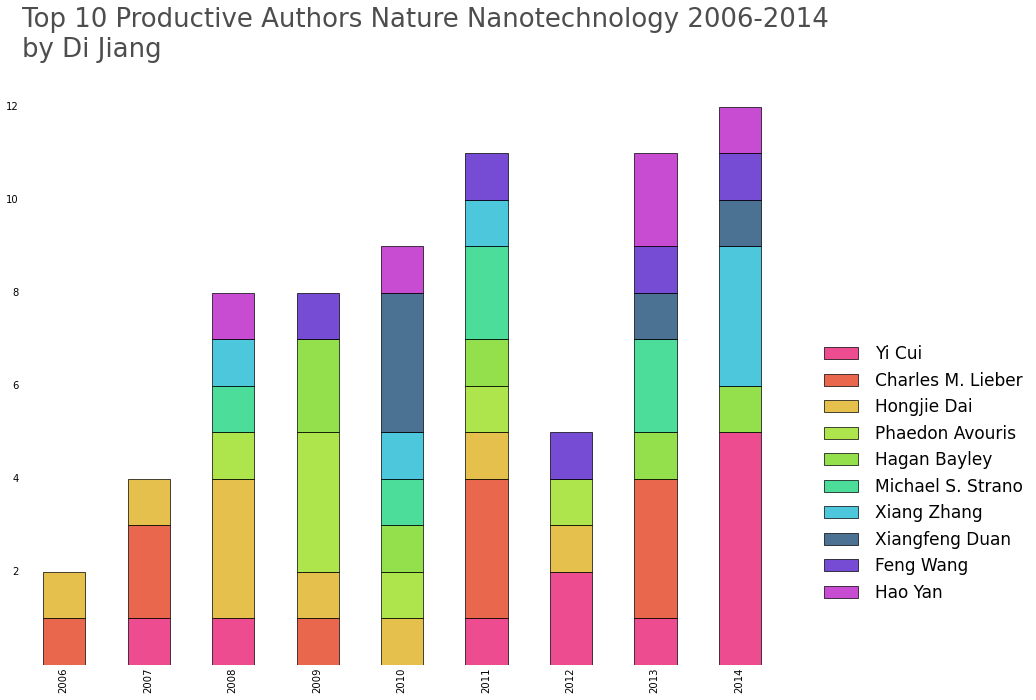
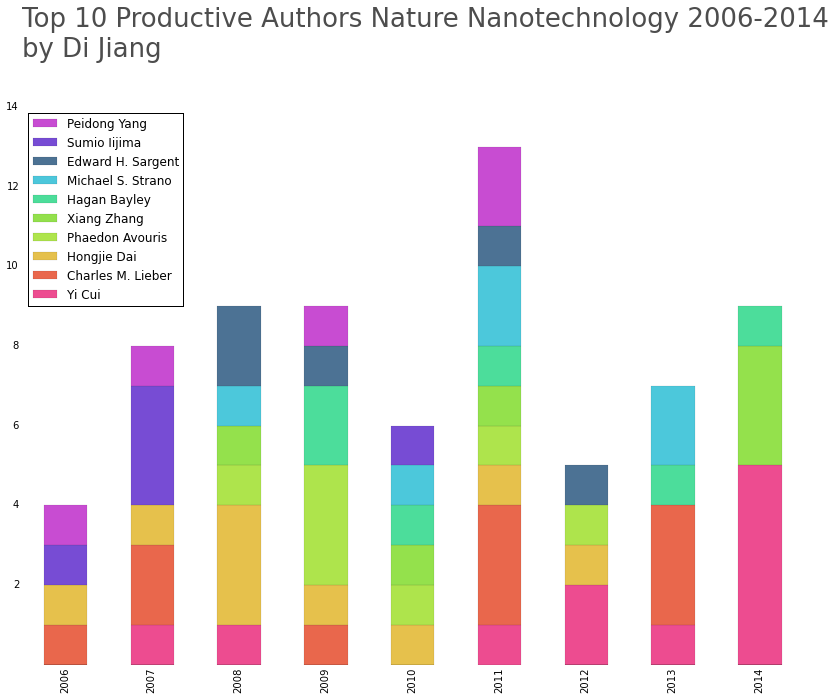
edit

diff --git a/_posts/2015-01-28-taste-of-open-access--part-3--top-10-most-productive-authors-in-nature-nanotechnology.md b/_posts/2015-01-28-taste-of-open-access--part-3--top-10-most-productive-authors-in-nature-nanotechnology.md
@@ -1,41 +1,33 @@
 ---
 layout: post
-title: Taste of Open Access - Part 3 - Top 10 Most productive authors in Nature Nanotechnology
+title: Taste of Open Access - Part 3 - Top 10 most productive authors in Nature Nanotechnology
 categories: []
 tags: []
 published: True
 date: 2015-01-28 18:00:41
 ---
 
-In the previous post, I have the downloaded all the meta information from Nature's Open Search API and saved them as json object arrays. And I have also counted the top 10 most used key words from these info. Now I would like to find out who are the most productive authors in Nature Nanotechnology.
+In the [previous post]({% post_url 2015-01-05-taste-of-open-access--part-2--top-10-used-words-in-nature-nanotechnology %}), I have the downloaded all the meta information from Nature's [Open Search API](http://www.nature.com/developers/documentation/api-references/opensearch-api/) and saved them as json object arrays. And I have also counted the top 10 most used key words from these info. Now I would like to find out who are the most productive authors in Nature Nanotechnology.
 
-As I have already got the meta data in hand, the mission is quite easy. I just loaded all the json files and search for the `dc:creators` keys where stores all the author names. There is a bug in Nature's API that sometimes there are two spaces instead of one between authors' first and last names. So I did a quick fix `author.replace('[space][space]', '[space]')` to change two spaces to one before logging the name.
+As I have already got the meta data in hand, the mission is quite easy. I just load all the json files and search for the `dc:creators` keys where stores all the author names, and make sure that the `["prism:genre"]` is set as "Research" (Editors usually don't publish in this genre so this criteria should screen out most editorial articles). There is a bug in Nature's API that sometimes there are two spaces instead of one between authors' first and last names. So I did a quick fix `author.replace('[space][space]', '[space]')` to change two spaces to one before logging the name.
 
-{% highlight python %}
-for year in range(2006, 2015):
-    fileName = 'nnano-' + str(year)
-    json_data=open(fileName + '.json')
-    data = json.load(json_data)
+After iterating through all the json files using similar method as I used in my [previous post]({% post_url 2015-01-05-taste-of-open-access--part-2--top-10-used-words-in-nature-nanotechnology %}), I've got a dictionary `summaryTable` holding all the author names and their corresponding number of mentions throughout Nature Nanotechnology's publication from 2006 to 2014, like this:
 
-    authorList = {}
-    
-    for entry in data:
-        if not entry['dc:creator']:
-            continue
-        if entry["prism:genre"] != 'Research':
-            continue
-            
-        for author in entry['dc:creator']:
-            author = author.replace('  ', ' ')
-            if author in editors:
-                continue
-            if not author in authorList.keys():
-                authorList[author] = 1
-            else:
-                authorList[author] = authorList[author] + 1
+{% highlight html %}
+________Yi Cui  Charles M. Lieber  Hongjie Dai  Phaedon Avouris  Xiang Zhang  
+2006       0                  1            1                0            0   
+2007       1                  2            1                0            0   
+2008       1                  0            3                1            1   
+2009       0                  1            1                3            0   
+2010       0                  0            1                1            1   
+2011       1                  3            1                1            1   
+2012       2                  0            1                1            0   
+2013       1                  3            0                0            0   
+2014       5                  0            0                0            3
+...
 {% endhighlight %}
 
-After iterating through all the json files, I've got a dictionary `authorList` holding all the author names and their corresponding number of mentions throughout Nature Nanotechnology's publication from 2006 to 2014. I used the same Pandas functions, which I used to find the top 10 key words in my previous post, to find the top 10 most productive authors from this `authorList`. And of course, it is imaginable that some of the top names of the articles are Nature editors, not authors. So I just manually take away the editors names (`editors`). Maybe I get some of the names wrong, as some names are not listed on Nature Nanotechnology's website. Anyway, the not-so-precise final top 10 is this:
+Thus, the final top 10 is this:
 
 {% highlight python %}
 Yi Cui               11
@@ -57,5 +49,9 @@ Figures can make things look beautiful, this is the count of total number of art
 And this is the article number distribution by author and years:
 
 ![top10 authors](/assets/images/top10productiveAuthorsNNanoBarStack.png)
+
+I recognize some of the big names in my field, such as Yi Cui, Charlse Lieber and Smio Ijjima. So, this analysis seems to have done a quite ok job. 
+
+The complete (and ugly) code for generating the summaryTable can be found [here](https://gist.github.com/deene/bcdc9ad9915aababfedd).
 
 

diff --git a/_posts/2015-01-05-taste-of-open-access--part-2--top-10-used-words-in-nature-nanotechnology.md b/_posts/2015-01-05-taste-of-open-access--part-2--top-10-used-words-in-nature-nanotechnology.md
@@ -56,4 +56,4 @@ From the figure we can see that the word 'spin' is rising significantly since 20
 
 To my surprise, 'graphene' does not make it to the top 10. Isn't it the hottest topic over the last decade? Hmmm... Maybe the sample size is too small as I am just using the data from one journal. I will try to include more journal sources if I have time to write a crawler for all the major journals. I feel sad that not all of them has a available API to query from.
 
-In the next post, I will try to find out who are the most productive authors of Nature Nanotechnology. 
+Anyway, playing with these data gives me a lot of fun. In the next post, I will try to find out who are the most productive authors of Nature Nanotechnology. 
